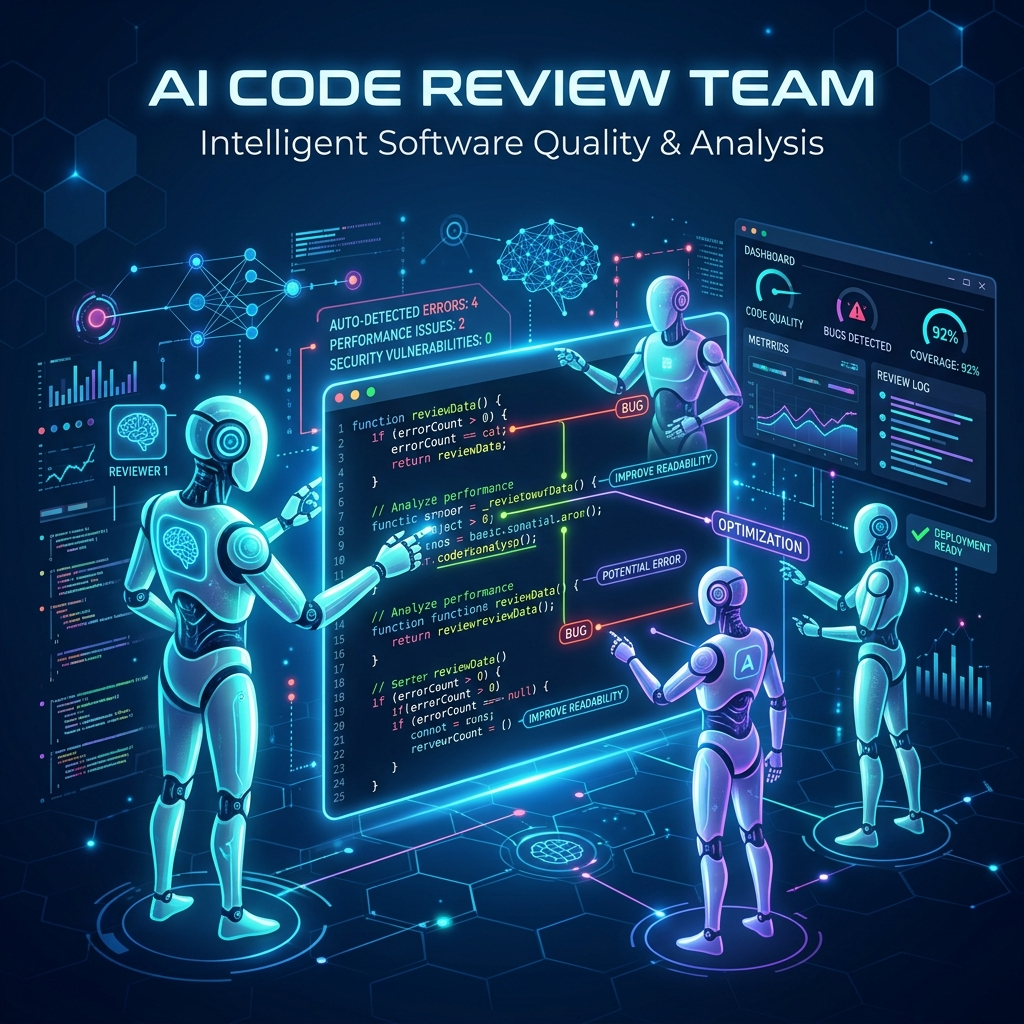
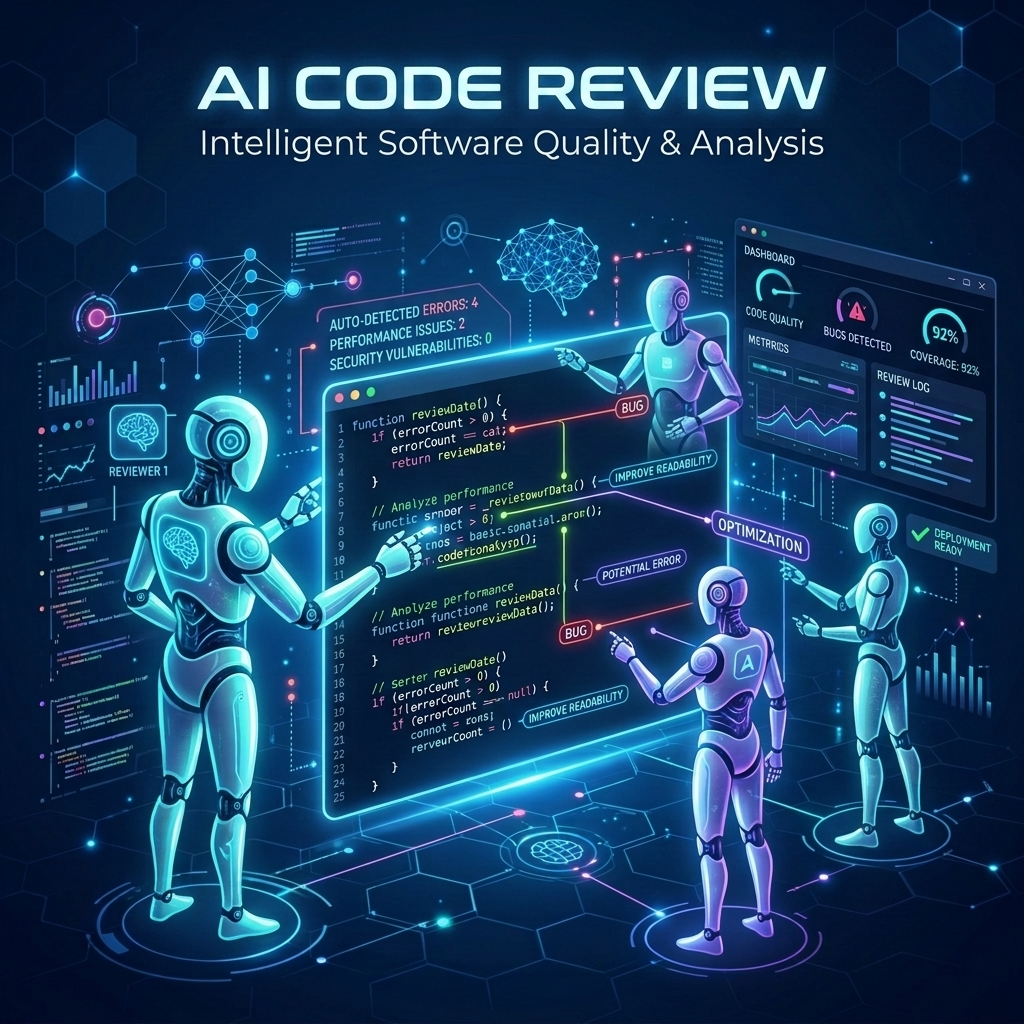
Update README

diff --git a/README.md b/README.md
@@ -7,7 +7,7 @@ A multi-agent code analysis assistant that reviews source code and automatically
 
 ---
 
-## 🌟 Features
+## Features
 
 - **Multi-Agent Coordination**: A sequential execution pipeline coordinates four highly specialized agents:
   - **Bug Detection Agent**: Scans code for logical errors, syntax mishaps, and type mismatches.